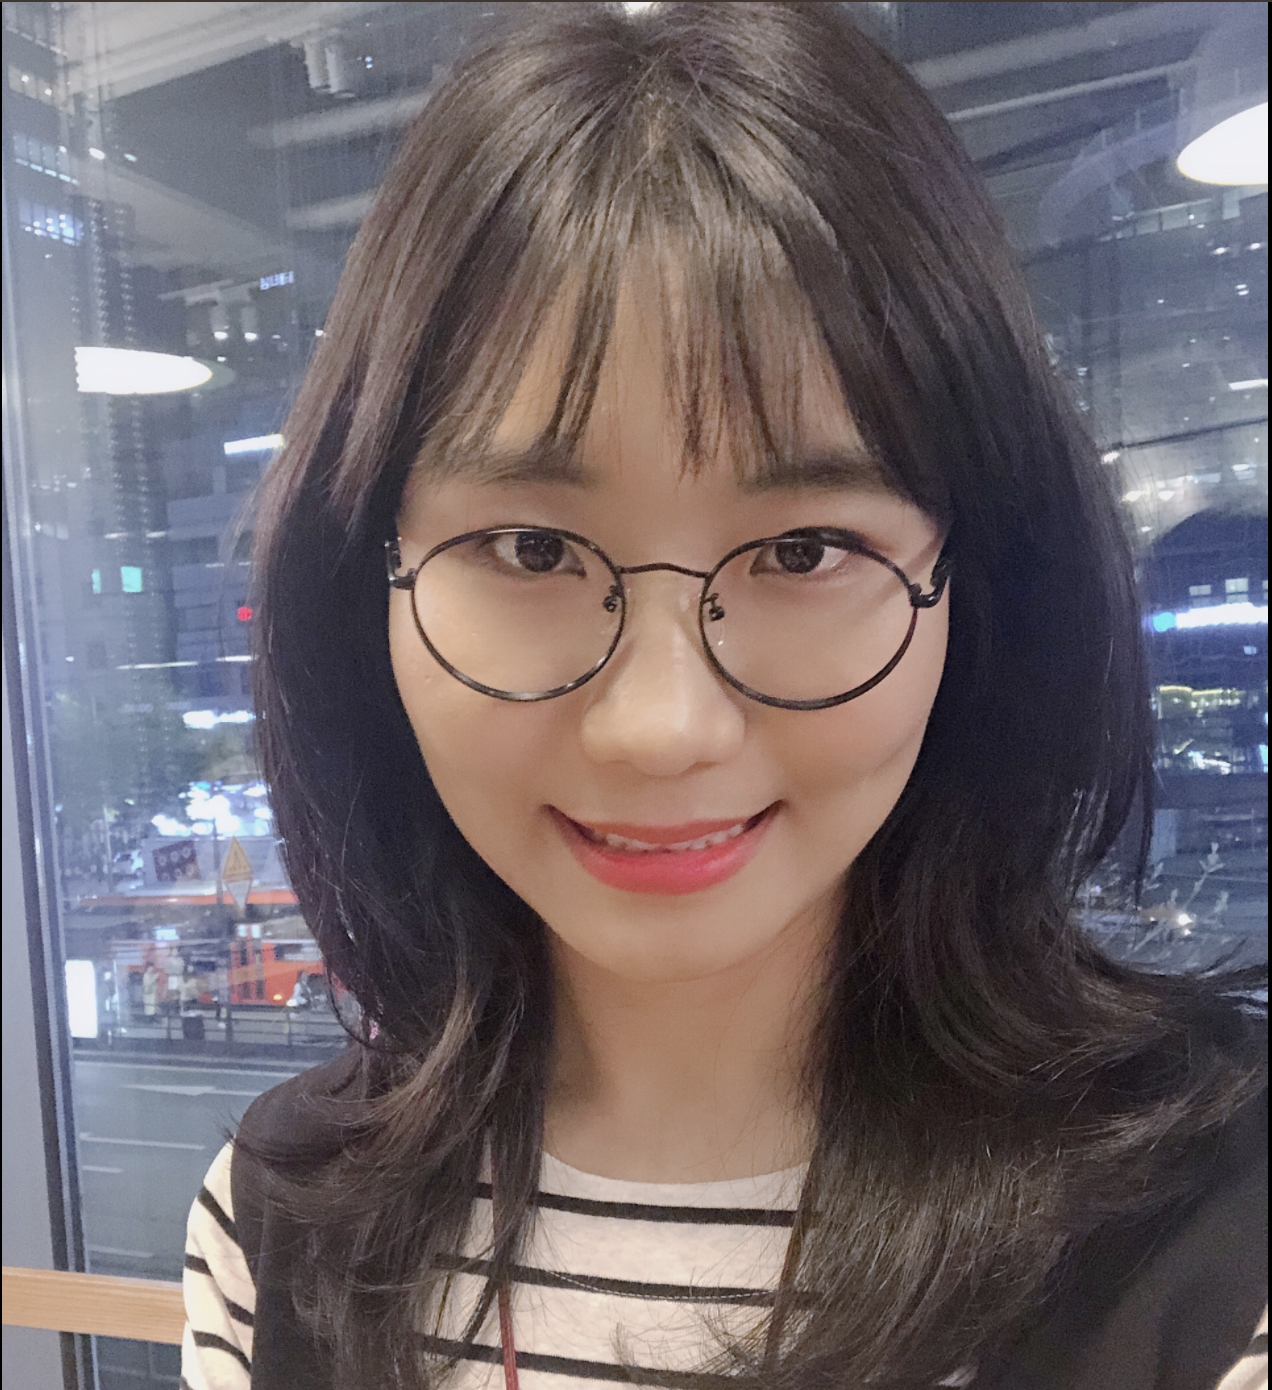
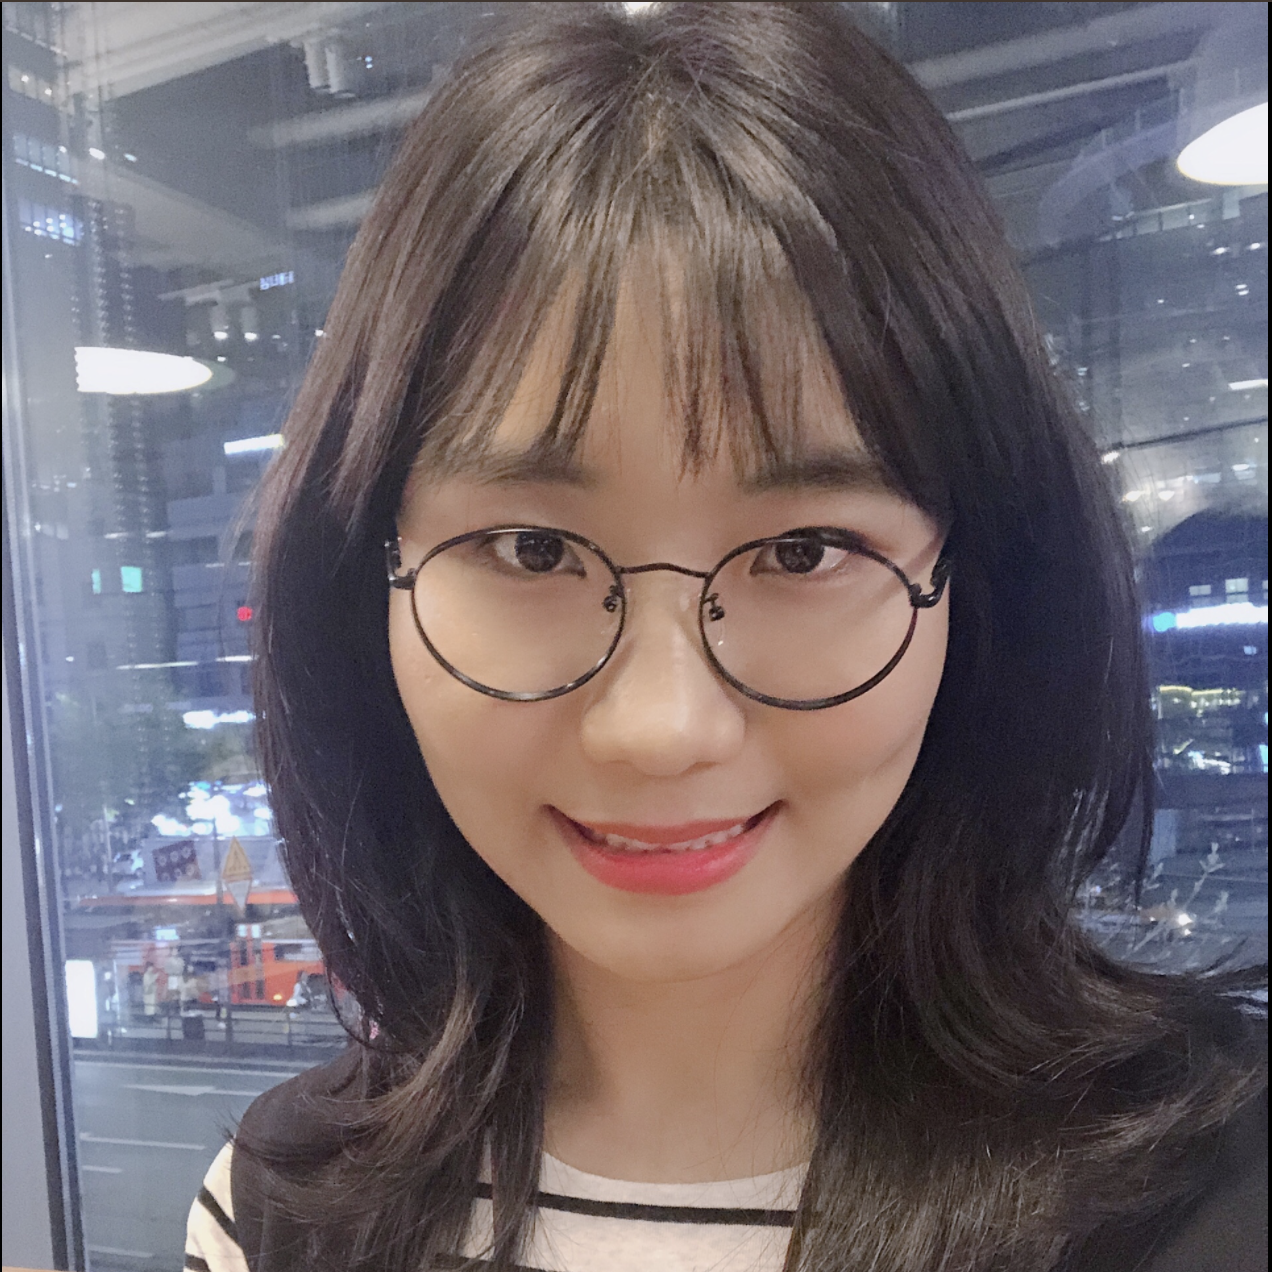
added speakers profile

diff --git a/index.html b/index.html
@@ -100,40 +100,55 @@
         <h2 class="text-white m-30">Speakers</h2>
         <div class="row">
           <div class="speaker col-xs-6 col-md-6 col-lg-4">
-            <img class="speaker-profile img-responsive" src="images/speakers/aria.png" />
+            <div class="speaker-profile">
+              <img class="img-responsive" src="images/speakers/aria.png" />
+              <div class="speaker-desc">
+                <span>카카오모빌리티 서버 개발</span>
+              </div>
+            </div>
             <span class="speaker-name">Aria<br/>오아리</span>
-            <!-- <div class="speaker-desc">
-              카카오모빌리티 서버개발
-            </div> -->
           </div>
+
           <div class="speaker col-xs-6 col-md-6 col-lg-4">
-            <img class="speaker-profile img-responsive" src="images/speakers/latte.png" />
+            <div class="speaker-profile">
+              <img class="img-responsive" src="images/speakers/latte.png" />
+              <div class="speaker-desc">
+                <span>카카오 안드로이드 개발</span>
+              </div>
+            </div>
             <span class="speaker-name">Latte<br/>김상국</span>
           </div>
+
           <div class="speaker col-xs-6 col-md-6 col-lg-4">
-            <img class="speaker-profile img-responsive" src="images/speakers/kyle.png" />
+            <div class="speaker-profile">
+              <img class="img-responsive" src="images/speakers/kyle.png" />
+              <div class="speaker-desc">
+                <span>네이버</span>
+              </div>
+            </div>
             <span class="speaker-name">Kyle<br/>조용래</span>
           </div>
+
           <div class="speaker col-xs-6 col-md-6 col-lg-4">
-            <img class="speaker-profile img-responsive" src="images/jandi_leaf.png" />
-            <span class="speaker-name">Aria</span>
+            <div class="speaker-profile">
+              <img class="img-responsive" src="images/speakers/june.png" />
+              <div class="speaker-desc">
+                <span>카카오 서버 개발</span>
+              </div>
+            </div>
+            <span class="speaker-name">June<br/>김준호</span>
           </div>
+
           <div class="speaker col-xs-6 col-md-6 col-lg-4">
-            <img class="speaker-profile img-responsive" src="images/jandi_leaf.png" />
-            <span class="speaker-name">Aria</span>
+            <div class="speaker-profile">
+              <img class="img-responsive" src="images/speakers/miika.png" />
+              <div class="speaker-desc">
+                <span>카카오 데이터 분석</span>
+              </div>
+            </div>
+            <span class="speaker-name">Miika<br/>이민호</span>
           </div>
-          <div class="speaker col-xs-6 col-md-6 col-lg-4">
-            <img class="speaker-profile img-responsive" src="images/jandi_leaf.png" />
-            <span class="speaker-name">Aria</span>
-          </div>
-          <div class="speaker col-xs-6 col-md-6 col-lg-4">
-            <img class="speaker-profile img-responsive" src="images/jandi_leaf.png" />
-            <span class="speaker-name">Aria</span>
-          </div>
-          <div class="speaker col-xs-6 col-md-6 col-lg-4">
-            <img class="speaker-profile img-responsive" src="images/jandi_leaf.png" />
-            <span class="speaker-name">Aria</span>
-          </div>
+
         </div>
       </div>
 
@@ -149,7 +164,7 @@
           </colgroup>
             <tr>
               <th class="bg-pk">9:30 ~ 10:00</th>
-              <td colspan="2">등록</td>
+              <td colspan="2" class="text-center">등록</td>
             </tr>
             <tr>
               <th class="bg-dg">10:00 ~ 10:20</th>
@@ -168,22 +183,22 @@
             </tr>
             <tr>
               <th class="bg-pk">12:00 ~ 13:00</th>
-              <td colspan="2">Lunch</td>
+              <td colspan="2" class="text-center">점심</td>
             </tr>
             <tr>
               <th class="bg-dg">13:00 ~ 13:50</th>
               <td>Causal Inference</td>
-              <td class="speaker">Miika <!--<img class="speaker-sm img-responsive" src="images/speakers/miika.png" />--></td>
+              <td class="speaker">Miika <img class="speaker-sm img-responsive" src="images/speakers/miika.png" /></td>
             </tr>
             <tr>
               <th class="bg-pk">14:00 ~ 14:30</th>
-              <td>Real Estate</td>
+              <td>부동산 이야기</td>
               <td class="speaker">Lev <!--<img class="speaker-sm img-responsive" src="images/speakers/lev.png "/>--></td>
             </tr>
             <tr>
               <th class="bg-dg">14:40 ~ 15:20</th>
-              <td>canvas</td>
-              <td class="speaker">June <!--<img class="speaker-sm img-responsive" src="images/speakers/june.png" />--></td>
+              <td>Konva와 함께하는 canvas 2d 그래픽</td>
+              <td class="speaker">June <img class="speaker-sm img-responsive" src="images/speakers/june.png" /></td>
             </tr>
             <tr>
               <th class="bg-pk">15:30 ~ 17:00</th>
@@ -192,7 +207,7 @@
             </tr>
             <tr>
               <th class="bg-dg">17:00 ~</th>
-              <td colspan="2">마무리 및 행사 종료<br/><i style="font-weight:100">(네트워킹을 위한 뒷풀이도 진행됩니다!)</i></td>
+              <td colspan="2" class="text-center">마무리 및 행사 종료<br/><i style="font-weight:100">(네트워킹을 위한 뒷풀이도 진행됩니다!)</i></td>
             </tr>
           </table>
           <span>* <span class="badge badge-pill badge-success">실습</span> 뱃지가 붙어있는 세션은 노트북이 필요합니다.</span>
@@ -247,6 +262,15 @@
       window.open('https://forms.gle/GPmfFs8p49khu1D2A', '_blank');
     })
     $('body').scrollspy({ target: '#navbarCollapse' });
+
+    $(".speaker-profile").mouseover(function(e) {
+      var target = e.currentTarget;
+      target.querySelector(".speaker-desc").style.display = "block";
+    });
+    $(".speaker-profile").mouseout(function(e) {
+      var target = e.currentTarget;
+      target.querySelector(".speaker-desc").style.display = "none";
+    });
 
     /* timer */
     var countDownDate = new Date("2019-06-01T09:30:00").getTime();

diff --git a/index.css b/index.css
@@ -133,6 +133,10 @@ nav {
   #header>h2>span {
     display: none;
   }
+
+  #speakers .speaker-desc>span {
+    top: 40%;
+  }
 }
 .content {
   padding: 30px;
@@ -161,26 +165,49 @@ nav {
 }
 .speaker .speaker-profile {
   border-radius: 50% !important;
-  display: block;
-  background-color: #90B24C;
-  padding: 2px;
+  position: relative;
+  text-align: center;
   margin: 10px auto;
-  width: 100%;
   max-width: 200px;
   height: auto;
 }
+.speaker .speaker-profile img {
+  border-radius: 50% !important;
+  display: block;
+  background-color: rgb(213, 210, 23);
+  padding: 2px;
+  width: 100%;
+}
 #speakers .speaker-desc {
   display: none;
+  font-weight: 400;
+  color: #052F10;
   width: 100%;
-  height: auto;
-  padding: 2px;
-  margin: 10px auto;
+  height: 100%;
+  position: absolute;
+  top: 0%;
+  left: 0%;
   border-radius: 50% !important;
-  max-width:200px;
+  background-color: rgba(213, 210, 23, 0.8);
+}
+#speakers .speaker-desc>span {
+  position: absolute;
+  top: 45%;
+  left: 0%;
+  width: 100%;
+  margin: 0 auto;
 }
 @media (min-width: 300px) {
+  #speakers {
+    background-attachment: initial;
+    background-position: center;
+  }
   #speakers .speaker {
     width: 50%;
+  }
+  #speakers .speaker-name {
+    font-size: 1.2em;
+    margin-top: 0;
   }
 }
 
@@ -190,24 +217,17 @@ nav {
   font-weight: 500;
   font-size: 1.5em;
   margin-top: 20px;
-  ine-height: 130%;
+  line-height: 130%;
   color: white;
 }
 #schedule table {
   overflow-x: scroll;
-  /* table-layout: fixed; */
 }
 #schedule table tr>th {
-  /* max-width: 130px; */
   word-wrap: break-word;
   text-align: center;
   font-weight: 300;
   color: #393B00;
-}
-@media (max-width: 767px) {
-  #schedule table tr>th {
-    /* width: 75px; */
-  }
 }
 #schedule table th,td {
   vertical-align: middle !important;
@@ -216,7 +236,6 @@ nav {
 }
 #schedule table td:first-of-type {
   font-weight: bold;
-  /* min-width: 150px; */
   padding-left: 20px !important;
 }
 #schedule table td:last-of-type {
